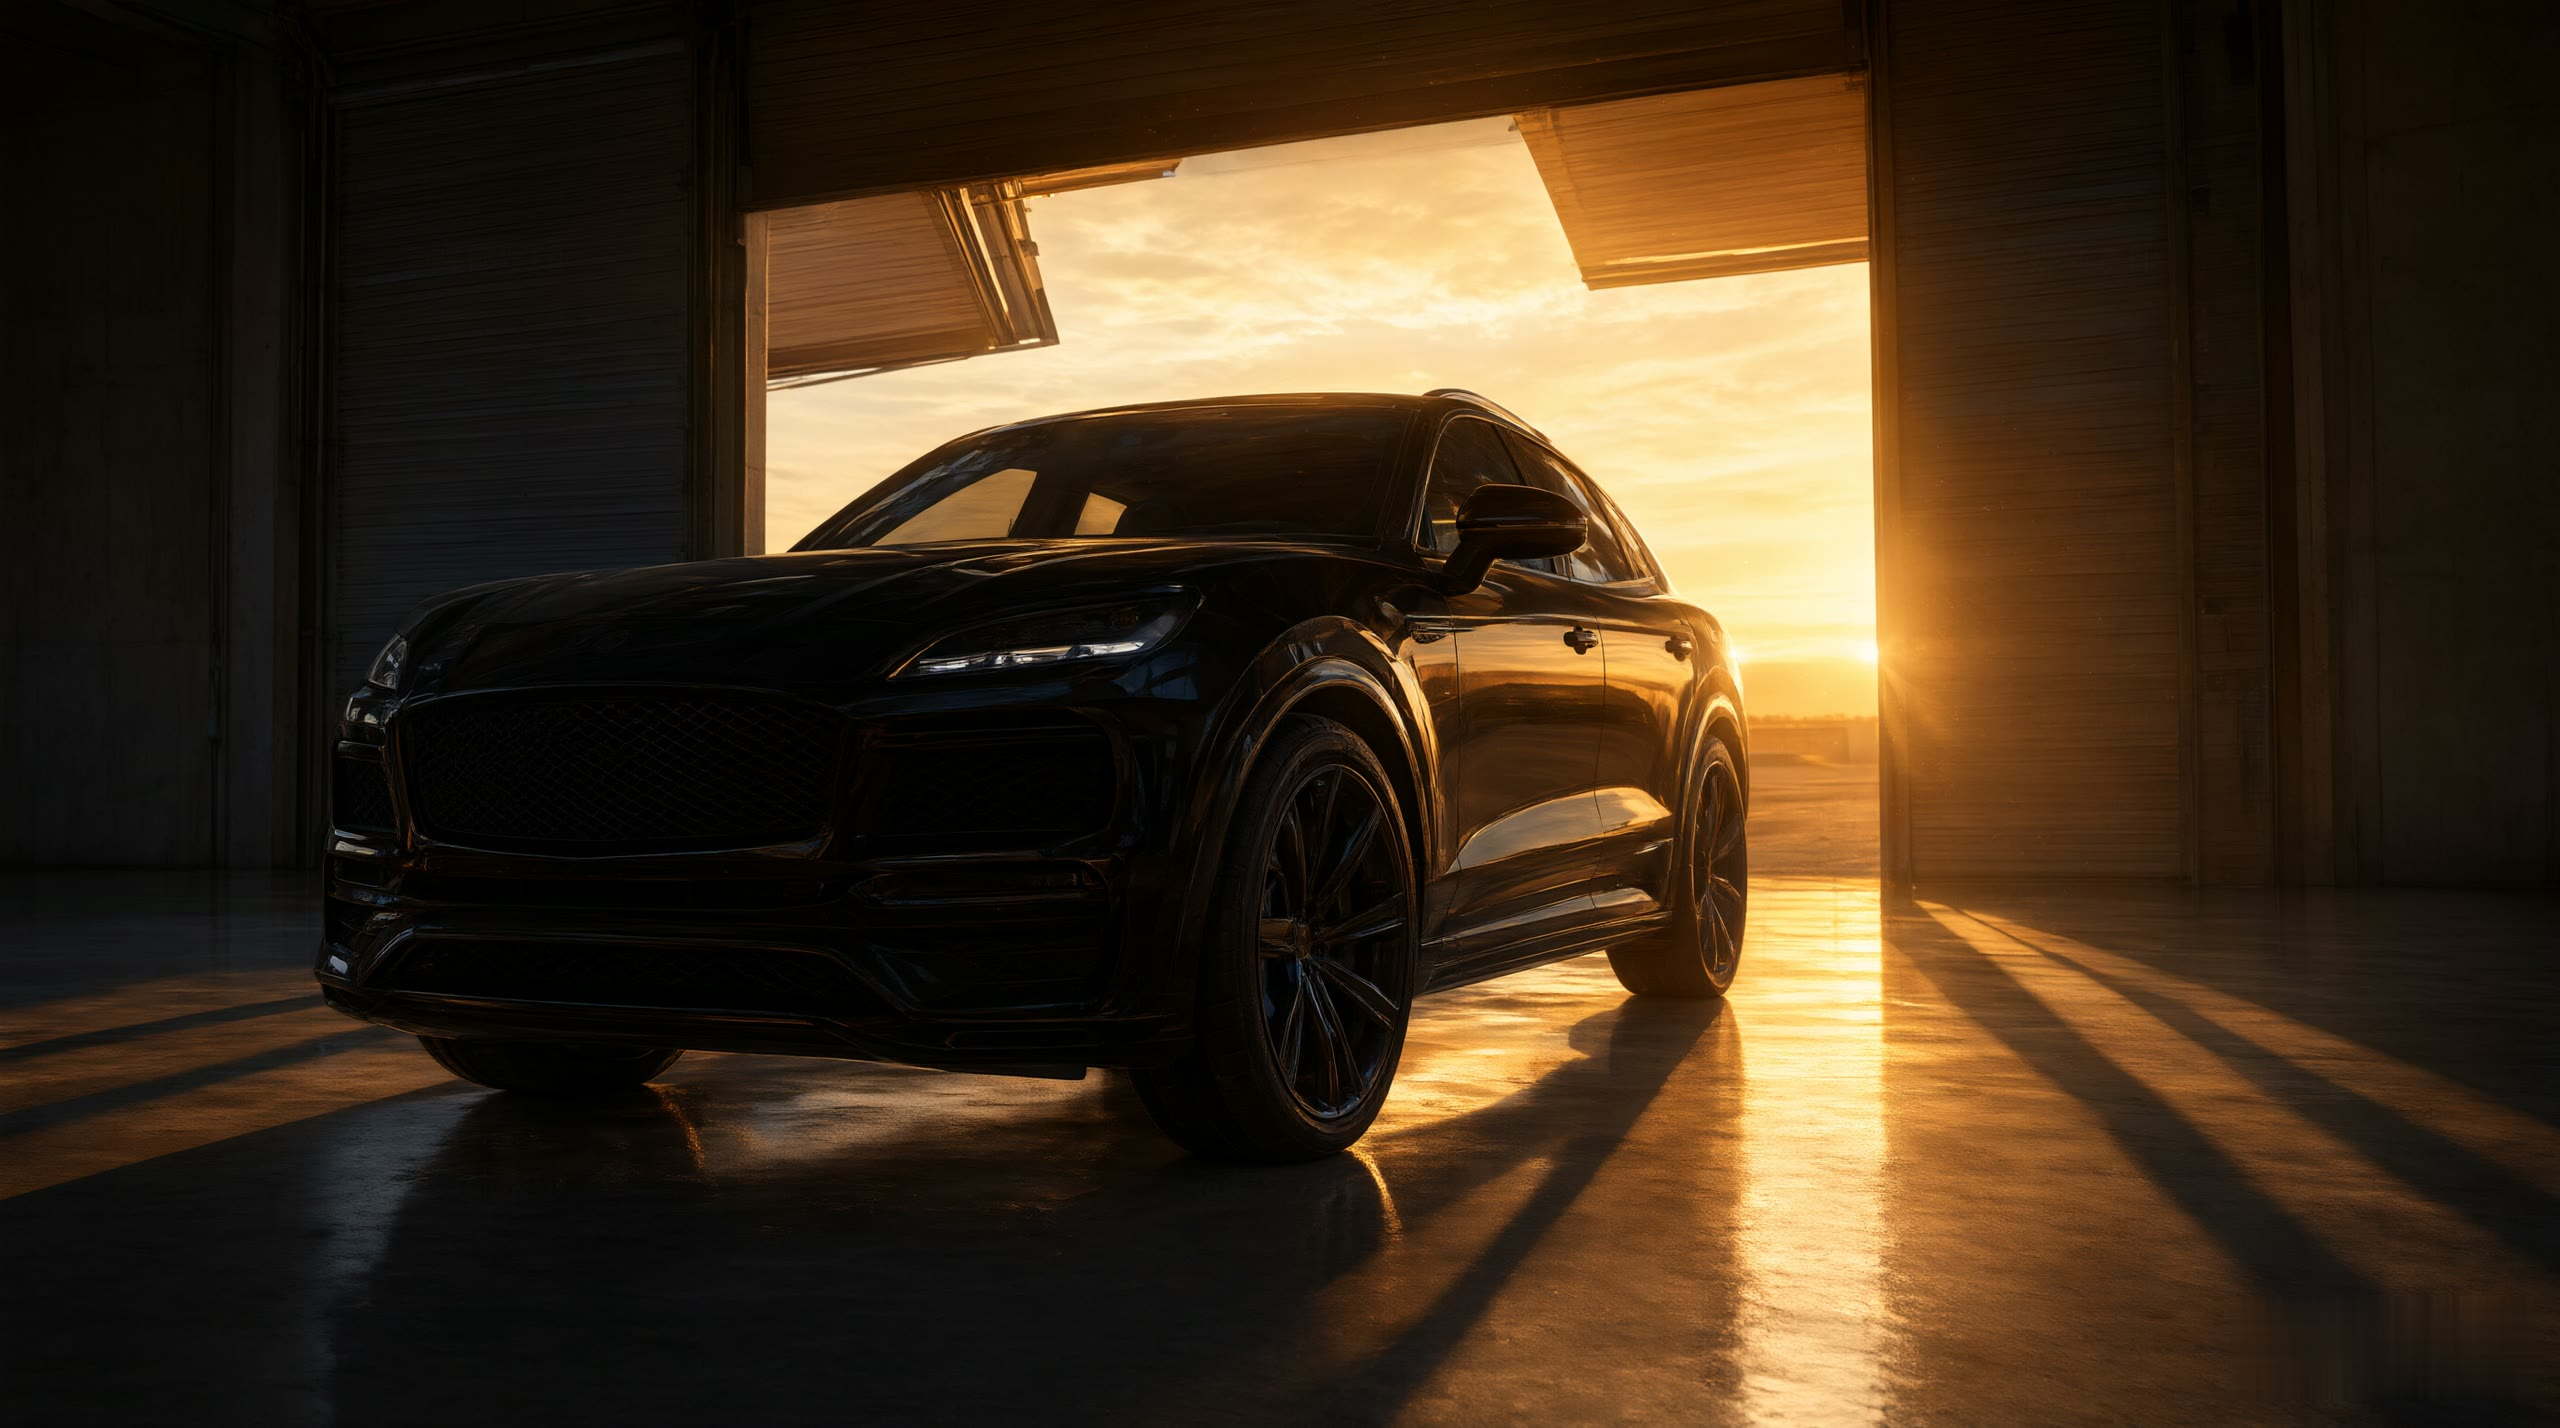
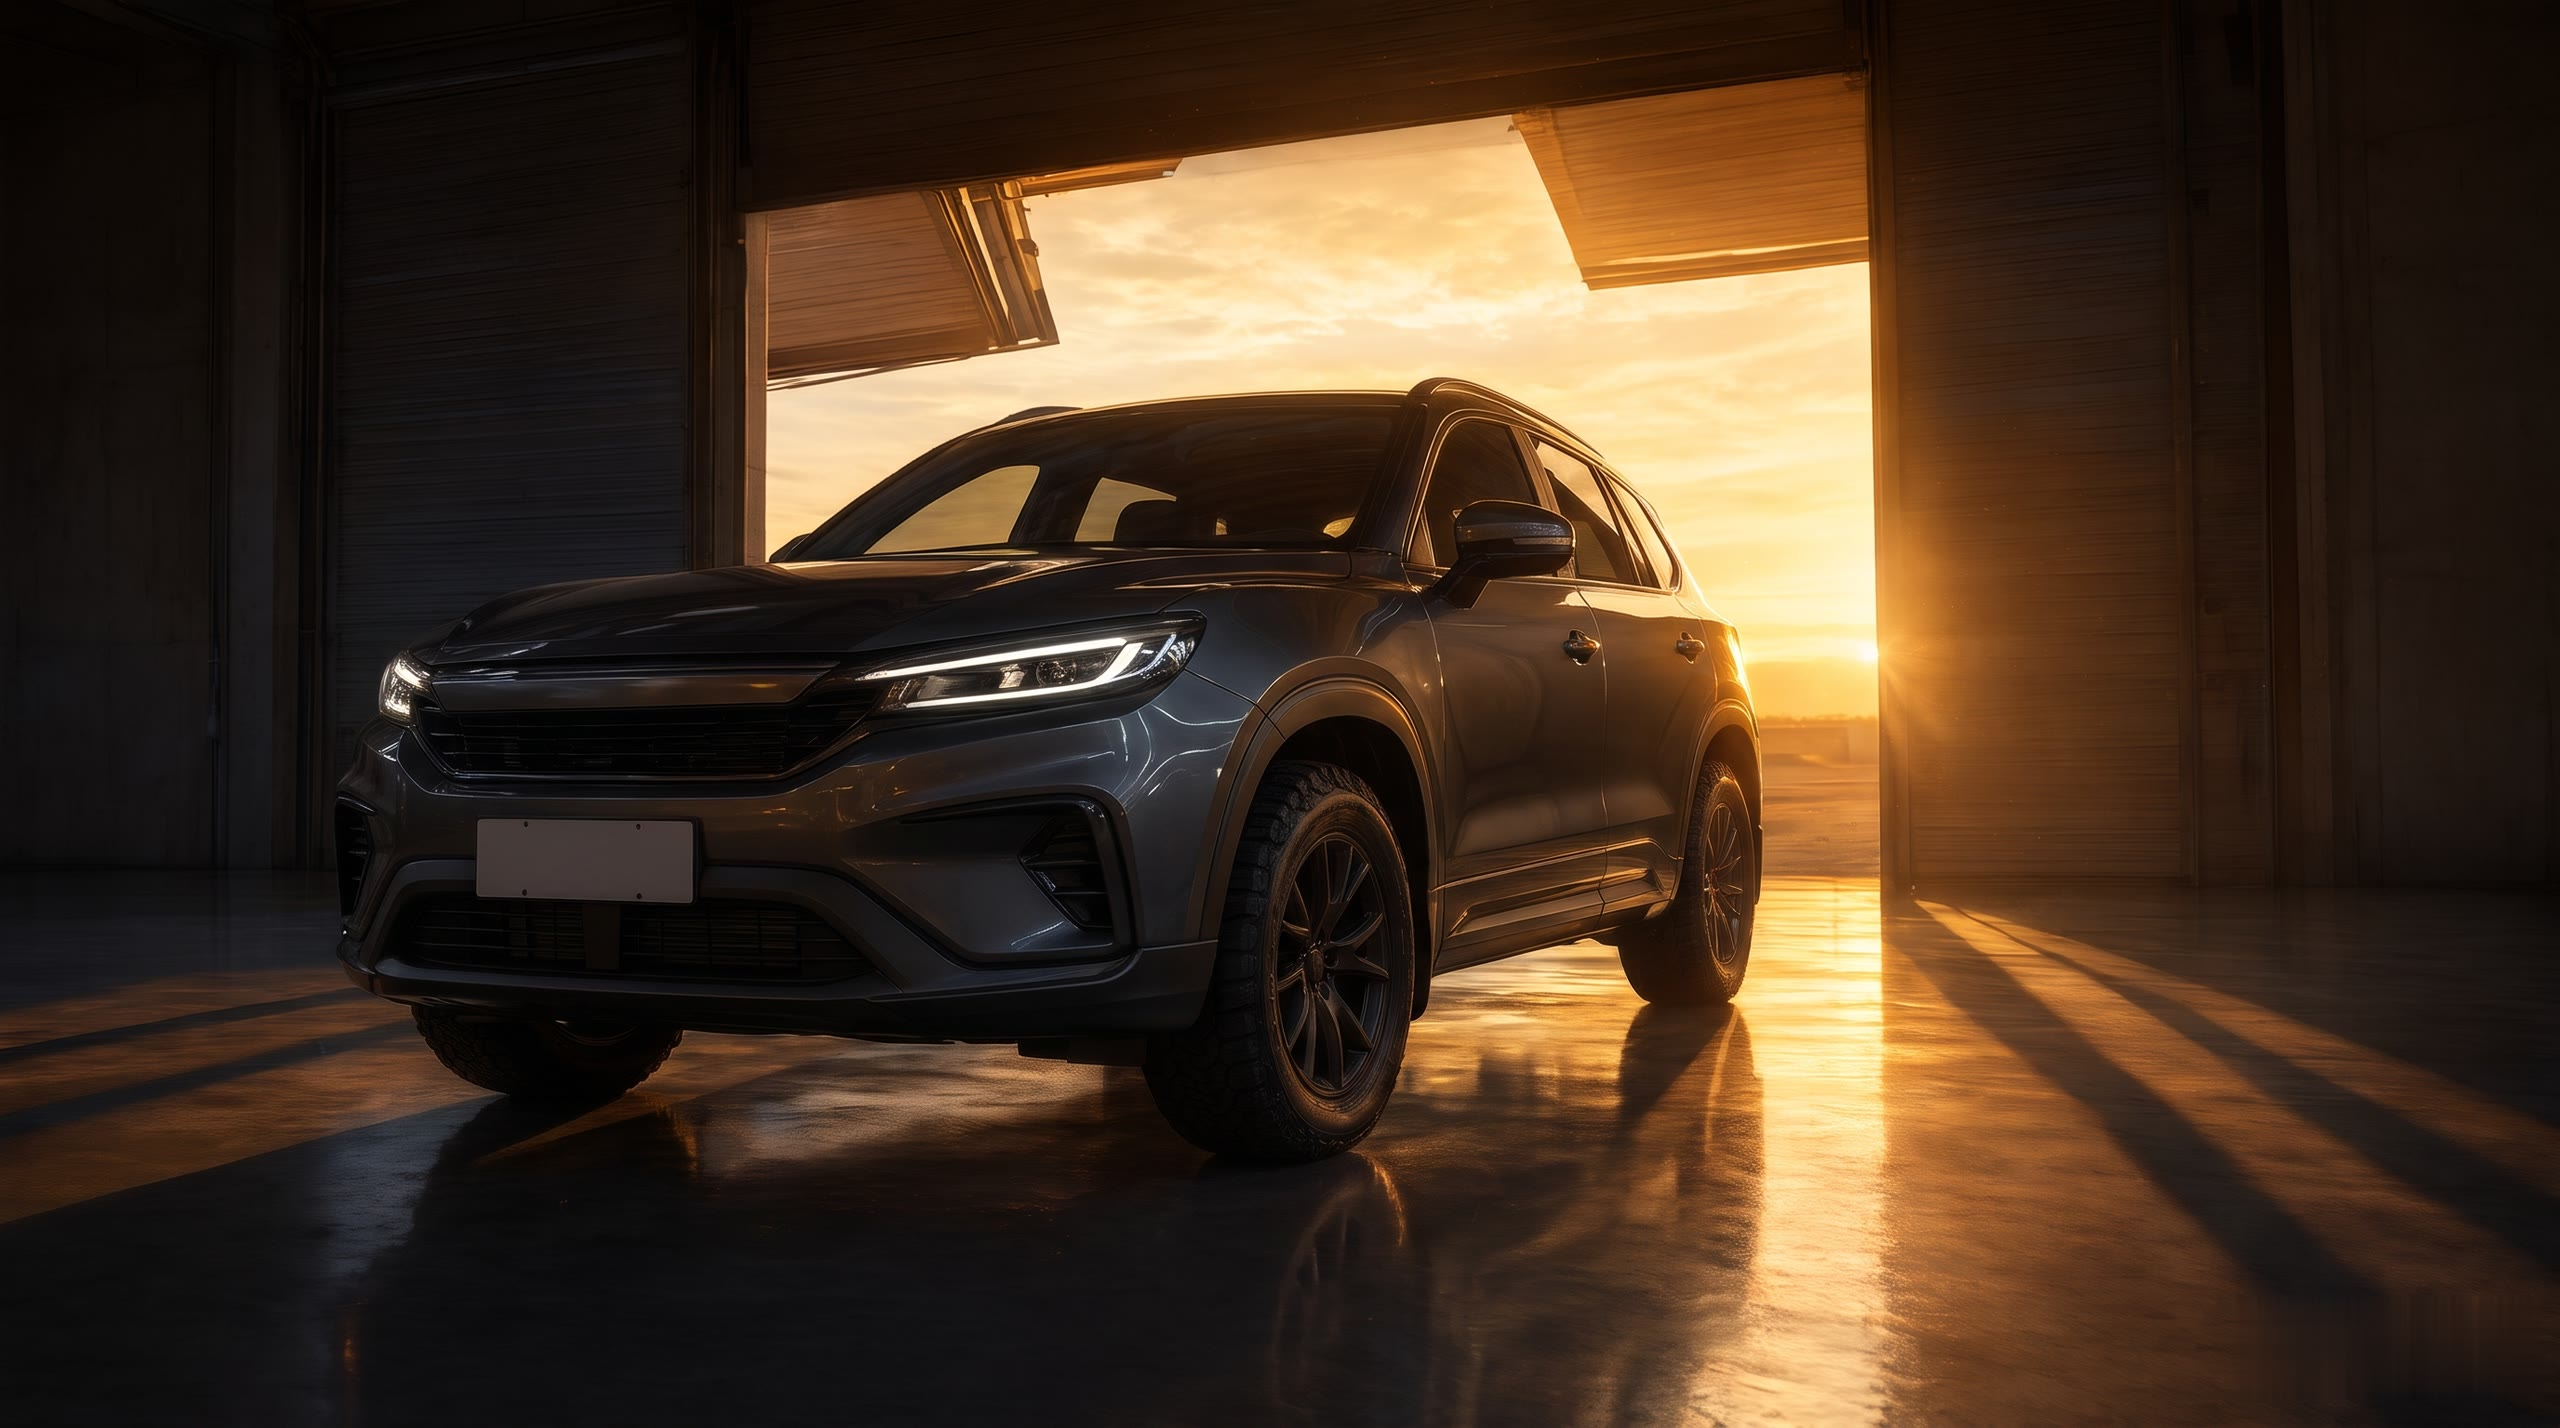
style: image du garage avec la même voiture

Changed region(s): [[0.0, 0.2465, 0.6875, 1.0], [0.7188, 0.8627, 0.75, 0.9552], [0.375, 0.1232, 0.4062, 0.1849]]

diff --git a/apps/detailing/front/src/pages/Accueil/HeroScenes.module.css b/apps/detailing/front/src/pages/Accueil/HeroScenes.module.css
@@ -15,7 +15,7 @@
 .propre { position: absolute; inset: 0; overflow: hidden; clip-path: inset(0 calc(100% - var(--rincage, 0) * 1%) 0 0); }
 /* Garage : image entière, d'abord agrandie pour que la voiture soit au même endroit que sur les autres images
    (zone de 64 % de l'image, point fixe à 26 % / 59 %), puis qui recule jusqu'au cadrage d'origine. */
-.garage { opacity: var(--garage, 0); transform-origin: 26.2% 58.8%; transform: scale(calc(1 + .56 * (1 - var(--recul, 0)))); }
+.garage { opacity: var(--garage, 0); transform-origin: 27.4% 59.5%; transform: scale(calc(1 + .53 * (1 - var(--recul, 0)))); }
 /* Barre de lumière qui rince : trait blanc net, à peine diffus, visible seulement pendant le rinçage. */
 .barre { position: absolute; top: 0; bottom: 0; left: calc(var(--rincage, 0) * 1%); width: 4px; margin-left: -2px; background: #fff;
   box-shadow: 0 0 18px 3px rgb(255 255 255 / .6); opacity: calc(min(var(--rincage, 0), 100 - var(--rincage, 0)) / 3); pointer-events: none; }

diff --git a/docs/demandes.md b/docs/demandes.md
@@ -59,6 +59,7 @@ Légende : ✅ fait et en ligne après déploiement · 🔧 en cours · ⏳ à f
 - ✅ Le scénario se joue aussi quand le pro est connecté (avant : l'image finale s'affichait directement en mode modification).
 - ✅ Le scénario du haut de l'accueil se joue tout seul à l'arrivée (environ 15 s, une pause sur chaque image) ; remonter le rejoue à l'envers au fil du défilement. Le moindre geste du visiteur arrête la lecture automatique ; pas de lecture si on arrive plus bas dans la page. Premier titre : « Avant. ».
 - ✅ Haut de l'accueil avec vos images créées par IA (Qwen), au fil du défilement : voiture boueuse (« Faites défiler pour nettoyer. »), la mousse coule dessus (« On applique la mousse. »), une barre de lumière la rince de gauche à droite (« On rince. »), on se rapproche de la voiture propre (« Regardez de plus près. »), porte du garage et lumière dorée, puis le texte et le panneau « Réserver votre lavage ». Réglages dans `data/heroScenes.ts`, images dans `public/scenes/`. Le logo « Qwen » est retiré par recadrage : vérifier que les conditions de Qwen le permettent pour un site professionnel.
+- ✅ Image du garage refaite avec la même voiture grise : elle arrive au même endroit puis recule jusqu'à l'image entière.
 - ✅ Image « voiture propre » refaite à partir de l'image boueuse (même voiture, même cadrage) : le rinçage nettoie vraiment la même voiture.
 - ✗ (remplacé) Haut de l'accueil, mécanisme du reel : vidéo qui avance et recule avec le défilement (scène épinglée), grands titres par étape en bas à droite, fine barre d'avancement, puis le texte de l'accueil à gauche et le panneau « Réserver votre lavage » (catégories avec prix « dès », bouton créneau, téléphone) qui glisse à droite. Réglages dans `data/heroVideo.ts`. Vidéo provisoire : le clip libre de droits.
 - ✗ (remplacé par les images) Générer la vidéo du haut de l'accueil avec une IA vidéo (5 plans : lavage par un faisceau de lumière, capot, micro-rayures polies, goutte, porte du garage) : consignes prêtes dans `docs/video-ia.md`, puis me déposer les 5 fichiers.

diff --git a/docs/CHANGELOG.md b/docs/CHANGELOG.md
@@ -208,6 +208,7 @@
 - Accueil : voiture fixe (images recadrées au même endroit, sans zoom), surtitre sur une ligne, titres sans chevauchement, panneau Réserver à droite menant au planning avec la formule cochée (?formule=…&etape=creneau).
 - Accueil : recul progressif sur l'image du garage jusqu'à son cadrage d'origine.
 - Accueil : nouvelle image « voiture propre », identique à la voiture boueuse (même cadrage), alignée.
+- Accueil : nouvelle image du garage (même voiture), point de recul recalé.
 
 ### Corrigé
 - Kit front : vocabulaire métier retiré des blocs et de leurs tests (`ChoiceChips`, `PriceSummary`, `Stepper`), conformément à la règle « aucun métier dans packages/ ».
